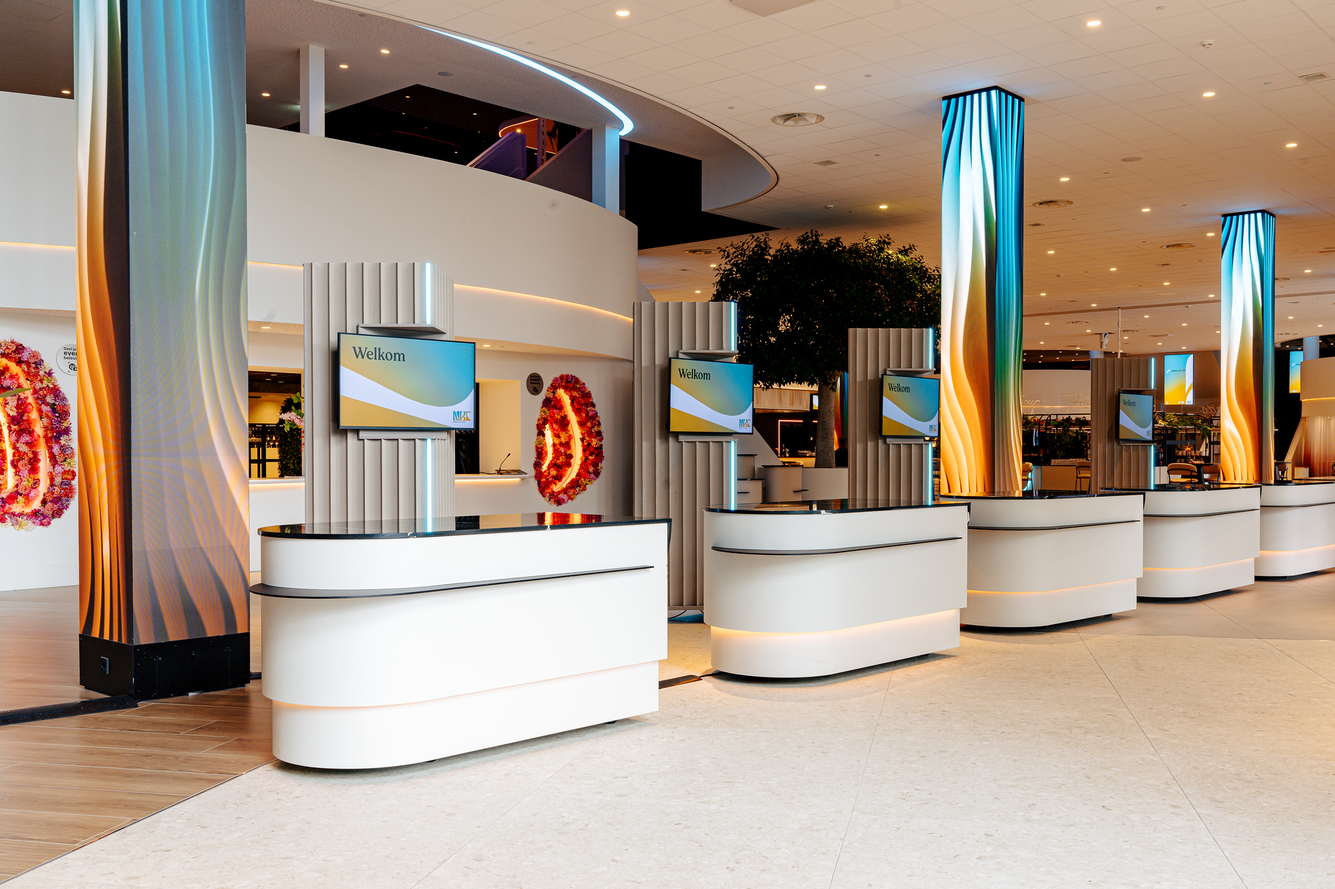
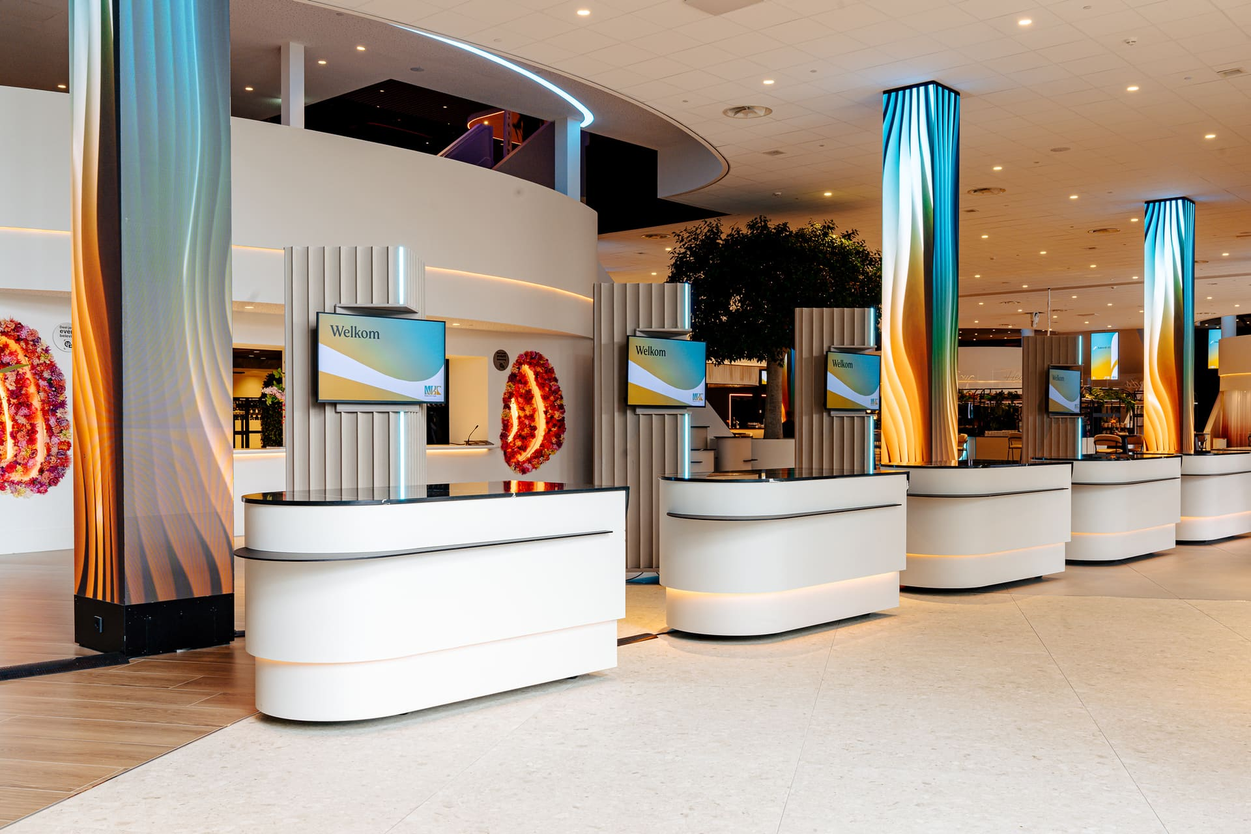
Nieuwe hero-foto op het startscherm
De ontvangstfoto van NBC als achtergrond, verkleind naar 1920px (247 KB).
Overlay met vignet en tekstschaduw voor contrast op de lichte balies; titel
past nu ook op 400px breed. Mock-modus gebruikt verzonnen namen zodat de
e2e-tests zonder backend draaien en er geen echte namen in de repo staan.

Claude-Session: https://claude.ai/code/session_012JaWhN4Zjs61TrytbmPSpy

diff --git a/web/e2e/flow.spec.ts b/web/e2e/flow.spec.ts
@@ -20,10 +20,10 @@ test.describe('designaanvraag-flow', () => {
     // 1. Naam: doorgaan zonder keuze geeft een fout
     await page.keyboard.press('Enter')
     await expect(page.getByRole('alert')).toContainText('Kies je naam')
-    await page.getByPlaceholder('Typ of kies je naam').fill('na')
+    await page.getByPlaceholder('Typ of kies je naam').fill('noa')
     await shot(page, '01-naam', p)
-    await page.getByRole('option', { name: 'Naomi' }).click()
-    await expect(page.getByPlaceholder('Typ of kies je naam')).toHaveValue('Naomi')
+    await page.getByRole('option', { name: 'Noa Demo' }).click()
+    await expect(page.getByPlaceholder('Typ of kies je naam')).toHaveValue('Noa Demo')
     await page.keyboard.press('Enter')
 
     // 2. Event
@@ -88,7 +88,7 @@ test.describe('designaanvraag-flow', () => {
 
     // 10. Overzicht
     await expect(page.getByRole('heading', { name: 'Klopt dit?' })).toBeVisible()
-    await expect(page.locator('.review__value').nth(0)).toHaveText('Naomi')
+    await expect(page.locator('.review__value').nth(0)).toHaveText('Noa Demo')
     await expect(page.locator('.review__value').nth(6)).toHaveText('LED-kolom, Vlaggen, Roll-up banner')
     await shot(page, '10-overzicht', p)
 
@@ -114,8 +114,8 @@ test.describe('designaanvraag-flow', () => {
   test('concept wordt bewaard en kan worden hervat', async ({ page }) => {
     await page.goto('/')
     await page.getByRole('button', { name: 'Start' }).click()
-    await page.getByPlaceholder('Typ of kies je naam').fill('Fle')
-    await page.getByRole('option', { name: 'Fleur' }).click()
+    await page.getByPlaceholder('Typ of kies je naam').fill('fen')
+    await page.getByRole('option', { name: 'Fenna Demo' }).click()
     await page.keyboard.press('Enter')
     await expect(page.getByRole('heading', { name: 'Voor welk event is het?' })).toBeVisible()
     await page.keyboard.type('Kerstborrel')
@@ -126,6 +126,6 @@ test.describe('designaanvraag-flow', () => {
     await expect(page.getByRole('heading', { name: 'Voor welk event is het?' })).toBeVisible()
     await expect(page.getByPlaceholder('Bijvoorbeeld Zorgcongres 2026')).toHaveValue('Kerstborrel')
     await page.getByRole('button', { name: 'Vorige vraag' }).click()
-    await expect(page.getByPlaceholder('Typ of kies je naam')).toHaveValue('Fleur')
+    await expect(page.getByPlaceholder('Typ of kies je naam')).toHaveValue('Fenna Demo')
   })
 })

diff --git a/web/src/styles/app.css b/web/src/styles/app.css
@@ -255,12 +255,12 @@ input, textarea, button { font-family: inherit; }
 
 /* ── Startscherm ───────────────────────────────────────────────── */
 .start { position: relative; min-height: 100dvh; display: grid; place-items: center; background: var(--bg-dark); color: var(--fg-on-dark); overflow: hidden; isolation: isolate; }
-.start__img { position: absolute; inset: 0; width: 100%; height: 100%; object-fit: cover; opacity: 0.9; z-index: -2; }
-.start__shade { position: absolute; inset: 0; background: linear-gradient(180deg, rgba(0,0,0,0.15) 0%, rgba(0,0,0,0.72) 100%); z-index: -1; }
+.start__img { position: absolute; inset: 0; width: 100%; height: 100%; object-fit: cover; object-position: 50% 45%; opacity: 0.92; z-index: -2; }
+.start__shade { position: absolute; inset: 0; background: radial-gradient(ellipse 60% 55% at 50% 52%, rgba(5,6,6,0.55) 0%, rgba(5,6,6,0) 100%), linear-gradient(180deg, rgba(5,6,6,0.32) 0%, rgba(5,6,6,0.5) 50%, rgba(5,6,6,0.8) 100%); z-index: -1; }
 .start__content { text-align: center; padding: 48px 16px 64px; max-width: 820px; }
 .start__logo { height: 38px; width: auto; margin: 0 auto 44px; }
-.start__title { font: 300 clamp(60px, 9vw, 128px)/0.98 var(--font-display); letter-spacing: -0.01em; margin: 18px 0 20px; color: var(--nbc-paper); }
-.start__lead { font: var(--t-paragraph-lg); color: rgba(250,250,250,0.85); max-width: 540px; margin: 0 auto 40px; }
+.start__title { font: 300 clamp(44px, 12.5vw, 128px)/0.98 var(--font-display); letter-spacing: -0.01em; margin: 18px 0 20px; color: var(--nbc-paper); text-shadow: 0 2px 24px rgba(0,0,0,0.35); }
+.start__lead { font: var(--t-paragraph-lg); color: rgba(250,250,250,0.92); max-width: 540px; margin: 0 auto 40px; text-shadow: 0 1px 12px rgba(0,0,0,0.45); }
 .start__meta { margin-top: 28px; font: 400 14px/1.4 var(--font-body); color: rgba(250,250,250,0.6); }
 
 /* ── Hervatten ─────────────────────────────────────────────────── */

diff --git a/web/src/lib/api.ts b/web/src/lib/api.ts
@@ -1,4 +1,5 @@
 import type { SubmitPayload, SubmitResult } from '../../../shared/aanvraag-schema'
+import { COLLEGAS_MOCK } from '../data/collegas.fallback'
 
 const FUNCTIONS_URL = import.meta.env.VITE_SUPABASE_URL ? `${import.meta.env.VITE_SUPABASE_URL}/functions/v1` : null
 const PUBLISHABLE_KEY = import.meta.env.VITE_SUPABASE_PUBLISHABLE_KEY as string | undefined
@@ -48,9 +49,10 @@ export async function fetchStatus(aanvraagId: string): Promise<{ brand_status: B
   }
 }
 
+/** Namenlijst uit Supabase; zonder backend (mock-modus) verzonnen namen, bij een storing de fallback. */
 export async function fetchCollegas(fallback: string[]): Promise<string[]> {
   const base = import.meta.env.VITE_SUPABASE_URL as string | undefined
-  if (!base || !PUBLISHABLE_KEY) return fallback
+  if (!base || !PUBLISHABLE_KEY) return COLLEGAS_MOCK
   try {
     const res = await fetch(`${base}/rest/v1/collegas_public?select=naam&order=volgorde,naam`, {
       headers: { apikey: PUBLISHABLE_KEY },

diff --git a/web/src/data/collegas.fallback.ts b/web/src/data/collegas.fallback.ts
@@ -3,3 +3,6 @@
  * Bewust leeg: de repo is publiek, namen horen niet in de broncode.
  */
 export const COLLEGAS_FALLBACK: string[] = []
+
+/** Verzonnen namen voor de mock-modus (lokaal zonder .env.local en in de e2e-tests). */
+export const COLLEGAS_MOCK = ['Alex Demo', 'Bo Demo', 'Casper Demo', 'Demi Demo', 'Fenna Demo', 'Noa Demo']
